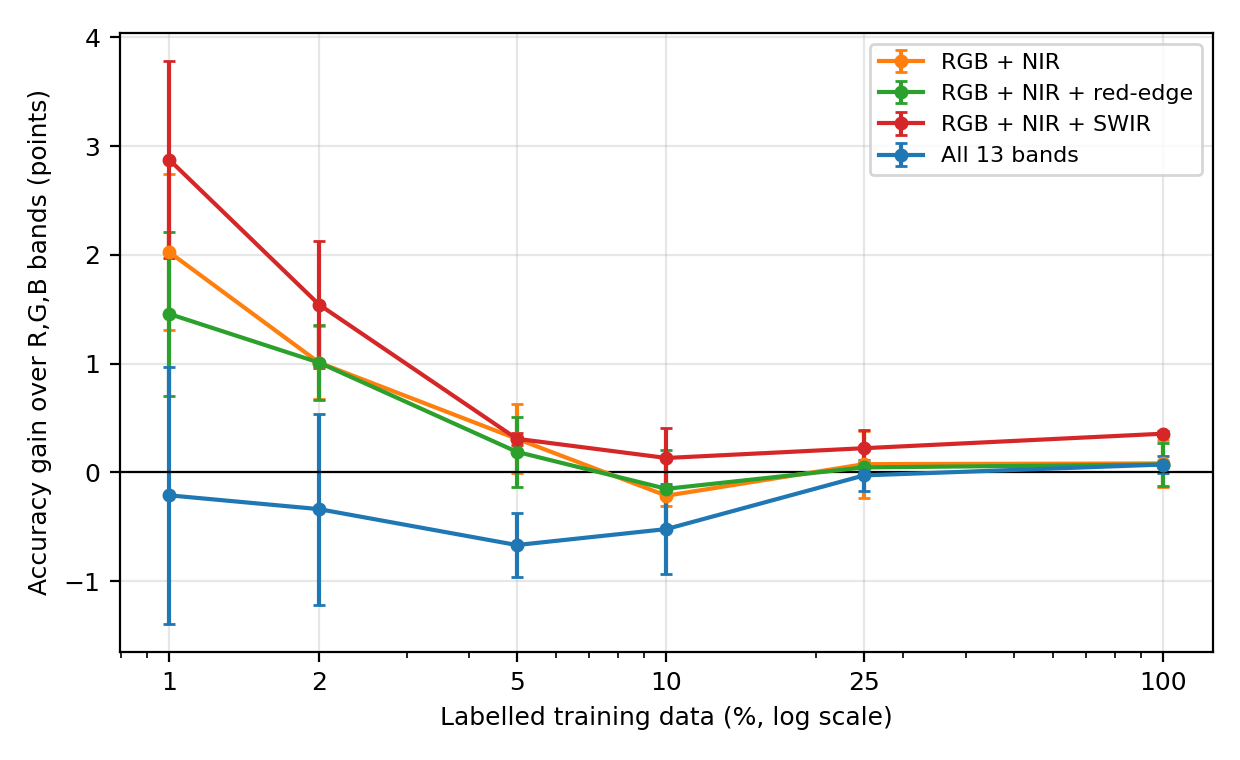
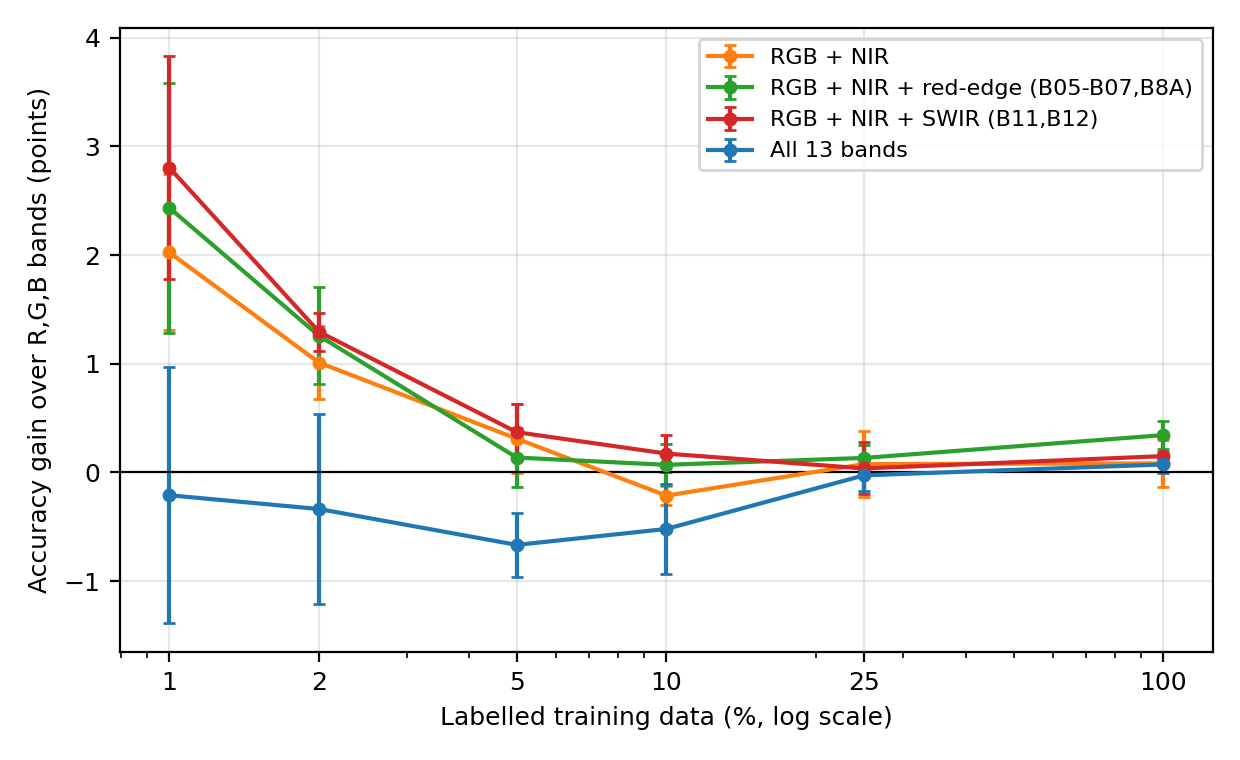
Add corrected band-ablation runs (red-edge, SWIR); rewrite band results in report; figure script reads all run files

diff --git a/report/latex/Elcvia2e.tex b/report/latex/Elcvia2e.tex
@@ -79,7 +79,8 @@ ResNet-50 88.3\% accuracy, against 76.3\% for the small CNN and 73.5\% for a
 ResNet-50 trained from scratch; the CNN needs about 3.6 to 5 times more labels to
 match them. With all labels the gap closes (98.5\%--98.8\%) and differences are within
 test-set noise. We also compare input bands using the 13-band version of
-the data. Extra infrared bands help mostly when labels are scarce, whereas feeding all
+the data. Infrared bands help mostly when labels are scarce (about +2 to +3 points at 1\% of
+the labels, almost nothing from 5\%), whereas feeding all
 13 bands to a pre-trained network does not help. We report per-class errors
 (highway/river and crop/vegetation confusions dominate), calibration, and a
 band-order pitfall in the data files that we found and corrected.
@@ -302,13 +303,21 @@ built-up and water surfaces (Figure~\ref{fig:spectral}), information that a netw
 extract from the visible bands alone.
 
 \textbf{More bands is not better.} Feeding all 13 bands to the pre-trained network is slightly worse than R,G,B for
-1--10\% of the labels ($-0.2$ to $-0.7$ points) and equal at 100\% ($+0.1$). A likely reason is that the pre-trained
+1--10\% of the labels ($-0.2$ to $-0.7$ points; at 1--2\% this is within one standard deviation, at 5--10\% it is not)
+and equal at 25--100\% ($0.0$ and $+0.1$). A likely reason is that the pre-trained
 first layer was learned for three channels, and ten extra channels dilute it; with few labels the network cannot
-relearn it. Selecting a few informative bands is better than using all of them.
+relearn it. Selecting a few informative bands is better than using all of them (at 1\%, 91.4--92.3\% against 89.2\%).
 
-\textbf{The first-run band sets.} The set B08+B12+B8A reached the highest accuracy of the ablation: $92.3\pm0.3$\% at 1\%
-($+2.9\pm0.9$ points over R,G,B) and $99.2\pm0.1$\% at 100\% ($+0.4\pm0.0$). B08+B05--B07+B09 gave
-$+1.5\pm0.8$ at 1\%. \tbd{two sentences on the corrected red-edge and SWIR groups once the re-run is finished.}
+\textbf{Beyond near-infrared.} The corrected groups give $+2.4\pm1.2$ points at 1\% of the labels for the red-edge set
+(B05--B07, B8A) and $+2.8\pm1.0$ for the SWIR set (B11, B12), against $+2.0\pm0.7$ for B08 alone; at 2\% both give $+1.3$
+against $+1.0$. The extra gain over B08 alone (at most 0.8 points) is smaller than the seed-to-seed standard deviation, so
+with three seeds we cannot rank the NIR-only, red-edge and SWIR inputs. From 5\% of the labels on, every group is
+within $\pm0.4$ points of R,G,B, which is the resolution of the test set.
+
+\textbf{The first-run band sets.} The set B08+B12+B8A has the highest mean at 1\% ($92.3\pm0.3$\%, $+2.9\pm0.9$ points over
+R,G,B) and at 100\% ($99.2\pm0.1$\%, $+0.4\pm0.0$), but it is statistically tied with the corrected SWIR set ($92.2\pm0.9$\% at 1\%), which
+shares the band B12, and with the corrected red-edge set at 100\%. B08+B05--B07+B09 gave the smallest gain of the extended
+sets ($+1.5\pm0.8$ at 1\%), possibly because B09 (water vapour) carries little information about the land surface.
 
 \subsection{JPEG RGB versus RGB from the multispectral files}
 \label{sec:rgbvs}
@@ -360,7 +369,9 @@ model: this is worth the same accuracy as 3.6 to 5 times more labels, much more 
 input-band choice we tried. A ViT-S/16 is a good default at 1--5\% of the labels; with a quarter of the labels or more a pre-trained
 ResNet-50 is within 0.3 points of it, and even a small CNN trained from scratch is within 0.3 points
 at 100\% of the labels. When labels are very scarce and infrared bands are available, feeding a small, well-chosen
-set of them (rather than all bands) gives an additional gain of up to about 3 points.
+set of them (rather than all bands) gives an additional gain of about 2 to 3 points at 1\% of the labels. Most of it
+comes from the single near-infrared band; adding red-edge or SWIR bands on top changes the result by less than the seed noise.
+From 5\% of the labels on, the gain is below 0.5 points.
 
 \textbf{Limitations.} (1) EuroSAT patches come from the same scenes, and we split patches at random,
 so patches from neighbouring locations can be in both the training and the test set; absolute accuracies are
@@ -379,7 +390,8 @@ learning, nor remote-sensing-specific pre-trained models [6], which are natural 
 On EuroSAT, the amount of labelled data needed depends mostly on whether the network is pre-trained: with 22 labelled
 images per class an ImageNet-pre-trained ViT-S reaches 90.6\% accuracy and ResNet-50 88.3\%, against 76.3\% for a
 small CNN, and a CNN needs 3.6 to 5 times more labels to catch up; with all labels every good model is at 98.5--98.8\%.
-Near-infrared and short-wave-infrared information adds up to about 3 points when only 1\% of the labels are available,
+Near-infrared information adds about 2 points when only 1\% of the labels are available (2.4--2.9 points with red-edge or
+short-wave-infrared bands as well, a difference within noise) and almost nothing from 5\% of the labels on,
 while using all 13 bands with a pre-trained network does not help. Most errors are between visually similar
 classes (Highway/River and the crop/vegetation group), and all models are under-confident because of label smoothing.
 We also found that the band order of the EuroSAT multispectral files differs from its documentation, which silently

diff --git a/report/latex/tab_bands.tex b/report/latex/tab_bands.tex
@@ -6,10 +6,10 @@
 \hline
 Input bands & 1\% & 2\% & 5\% & 10\% & 25\% & 100\% \\ \hline \hline
 R,G,B & 89.4 $\pm$ 0.6 & 93.7 $\pm$ 0.1 & 96.4 $\pm$ 0.2 & 97.3 $\pm$ 0.1 & 98.0 $\pm$ 0.0 & 98.8 $\pm$ 0.1 \\
-R,G,B + B08 (NIR) & 91.4 $\pm$ 0.3 & 94.7 $\pm$ 0.4 & \textbf{96.7 $\pm$ 0.5} & 97.1 $\pm$ 0.1 & 98.1 $\pm$ 0.3 & 98.9 $\pm$ 0.1 \\
-R,G,B + B08 + B05,B06,B07,B8A (red-edge) & \textbf{TBD} & \textbf{TBD} & \textbf{TBD} & \textbf{TBD} & \textbf{TBD} & \textbf{TBD} \\
-R,G,B + B08 + B11,B12 (SWIR) & \textbf{TBD} & \textbf{TBD} & \textbf{TBD} & \textbf{TBD} & \textbf{TBD} & \textbf{TBD} \\
-R,G,B + B08 + B12,B8A (first run) & \textbf{92.3 $\pm$ 0.3} & \textbf{95.2 $\pm$ 0.6} & \textbf{96.7 $\pm$ 0.2} & \textbf{97.5 $\pm$ 0.2} & \textbf{98.2 $\pm$ 0.1} & \textbf{99.2 $\pm$ 0.1} \\
+R,G,B + B08 (NIR) & 91.4 $\pm$ 0.3 & 94.7 $\pm$ 0.4 & 96.7 $\pm$ 0.5 & 97.1 $\pm$ 0.1 & 98.1 $\pm$ 0.3 & 98.9 $\pm$ 0.1 \\
+R,G,B + B08 + B05,B06,B07,B8A (red-edge) & 91.8 $\pm$ 0.8 & 95.0 $\pm$ 0.5 & 96.5 $\pm$ 0.3 & 97.4 $\pm$ 0.3 & 98.1 $\pm$ 0.1 & 99.2 $\pm$ 0.1 \\
+R,G,B + B08 + B11,B12 (SWIR) & 92.2 $\pm$ 0.9 & 95.0 $\pm$ 0.2 & \textbf{96.8 $\pm$ 0.2} & \textbf{97.5 $\pm$ 0.1} & 98.0 $\pm$ 0.2 & 99.0 $\pm$ 0.1 \\
+R,G,B + B08 + B12,B8A (first run) & \textbf{92.3 $\pm$ 0.3} & \textbf{95.2 $\pm$ 0.6} & 96.7 $\pm$ 0.2 & 97.5 $\pm$ 0.2 & \textbf{98.2 $\pm$ 0.1} & \textbf{99.2 $\pm$ 0.1} \\
 R,G,B + B08 + B05--B07,B09 (first run) & 90.8 $\pm$ 0.2 & 94.7 $\pm$ 0.4 & 96.6 $\pm$ 0.4 & 97.2 $\pm$ 0.3 & 98.1 $\pm$ 0.1 & 98.9 $\pm$ 0.2 \\
 All 13 bands & 89.2 $\pm$ 0.6 & 93.4 $\pm$ 0.9 & 95.7 $\pm$ 0.3 & 96.8 $\pm$ 0.4 & 98.0 $\pm$ 0.1 & 98.9 $\pm$ 0.2 \\
 \hline

diff --git a/src/make_report_figures.py b/src/make_report_figures.py
@@ -28,8 +28,8 @@ OUT = Path("report/latex")
 OUT.mkdir(parents=True, exist_ok=True)
 plt.rcParams.update({"font.size": 9, "axes.titlesize": 10, "figure.dpi": 150})
 
-df = pd.concat([pd.read_csv(p) for p in ["results/runs_rgb.csv", "results/runs_ms_a.csv", "results/runs_ms_b.csv"]],
-               ignore_index=True)
+# read EVERY results file (RGB runs, first band run a+b, corrected band rerun c+d), so new runs are never missed
+df = pd.concat([pd.read_csv(p) for p in sorted(glob.glob("results/runs_*.csv"))], ignore_index=True)
 df["cfg"] = df["model"] + "/" + df["init"] + "/" + df["input"]
 classes = json.loads(Path("data/splits.json").read_text())["classes"]
 SHORT = ["AnnualCrop", "Forest", "Herbaceous", "Highway", "Industrial", "Pasture", "PermCrop",
@@ -66,8 +66,8 @@ plt.tight_layout(); plt.savefig(OUT / "fig_label_eff.png", dpi=200); plt.close()
 base = df[df.cfg == "resnet50/imagenet/rgb_ms"].set_index(["frac", "seed"]).test_acc
 fig, ax = plt.subplots(figsize=(6.2, 3.8))
 styles = [("resnet50/imagenet/rgb+nir", "RGB + NIR", "#ff7f0e"),
-          ("resnet50/imagenet/rgb+nir+rededge", "RGB + NIR + red-edge", "#2ca02c"),
-          ("resnet50/imagenet/rgb+nir+swir", "RGB + NIR + SWIR", "#d62728"),
+          ("resnet50/imagenet/rgb+nir+rededge", "RGB + NIR + red-edge (B05-B07,B8A)", "#2ca02c"),
+          ("resnet50/imagenet/rgb+nir+swir", "RGB + NIR + SWIR (B11,B12)", "#d62728"),
           ("resnet50/imagenet/all13", "All 13 bands", "#1f77b4")]
 for cfg, lab, col in styles:
     d = ((df[df.cfg == cfg].set_index(["frac", "seed"]).test_acc - base) * 100).groupby("frac").agg(["mean", "std"])

diff --git a/docs/HANDOFF.md b/docs/HANDOFF.md
@@ -25,7 +25,13 @@ In the EuroSAT-MS `.tif` files the narrow NIR band **B8A is stored last**: order
 - old `rgb+nir+rededge` really = R,G,B + B08 + B05-B07 + B09 -> stored as `rgb+nir+b05b06b07b09`
 `src/data.py` is fixed (`BANDS` order, `BAND_GROUPS`). The two groups as originally intended (`rgb+nir+rededge` = B05,B06,B07,B8A; `rgb+nir+swir` = B11,B12) were **re-run** in Kaggle `notebook15cd3e6dee` (Version 2; notebook `notebooks/run_kaggle_ms_fix.ipynb`). The user says it has FINISHED, but **its results are not yet downloaded or merged**.
 
-## Remaining steps (in order)
+## UPDATE (session 2, 22 Nov 2026): steps 1-5 below are DONE
+- Corrected band run downloaded and merged (`results/runs_ms_c.csv` = red-edge, `runs_ms_d.csv` = SWIR, 18 rows each; total 198 runs). Tables/figures rebuilt, report text rewritten for the new numbers, Overleaf copy recompiled: 10 pages, no TBD.
+- New band result: NIR alone +2.0 +-0.7 pt at 1% labels; red-edge (B05-B07,B8A) +2.4 +-1.2; SWIR (B11,B12) +2.8 +-1.0; first-run B08+B12+B8A +2.9 +-0.9. Differences between the extended sets are within seed noise; from 5% labels on all gains are <0.4 pt.
+- Bug found in session 2: `src/make_report_figures.py` only read runs_rgb/ms_a/ms_b, so the band-gain figure ignored the corrected runs. It now reads every `results/runs_*.csv`.
+- Still open: user confirms affiliation/authors/email, downloads the PDF from Overleaf, says whether slides are needed.
+
+## Remaining steps (in order) - historical, see UPDATE above
 1. **Get the results.** Kaggle -> notebook15cd3e6dee -> Version 2 -> Output tab -> `proj/results_ms_fix.zip` (~1-3 MB; do NOT click "Download All", it holds ~4 GB). Extract into `kaggle_out/ms_fix/` (git-ignored). Copy `results/runs_ms_c.csv` and `results/runs_ms_d.csv` into the project `results/`, and `figures/spectral_signatures.png` (now with the corrected band names) into `figures/`. If the run did not finish or failed, read its log (view-only `/log` page) and resubmit.
 2. `python src/make_report_tables.py` (fills the two TBD rows of the band table automatically) and `python src/make_report_figures.py` (band-gain figure now uses the corrected groups; also copies the spectral figure). Open `figures/` PNGs and check them.
 3. **Edit `report/latex/Elcvia2e.tex`:**

diff --git a/README.md b/README.md
@@ -21,7 +21,7 @@ Team 21 · Deep Learning · Project P21 · Dataset: EuroSAT (Sentinel-2, 10 clas
 | ResNet-50 (ImageNet) | 88.3 | 96.0 | 96.8 | 98.0 | 98.7 |
 | ViT-S/16 (ImageNet-21k) | **90.6** | **97.1** | **97.5** | **98.3** | **98.8** |
 
-Pre-training is the strongest lever (worth ~3.6-5x more labels at 1%). Near-infrared adds ~2 points at 1% labels; feeding all 13 bands to a pre-trained network does not help.
+Pre-training is the strongest lever (worth ~3.6-5x more labels at 1%). Near-infrared adds ~2 points at 1% labels (2.4-2.9 with red-edge or SWIR bands too, a difference within seed noise) and almost nothing from 5% labels on; feeding all 13 bands to a pre-trained network does not help.
 Full tables, band ablation, error and calibration analysis: see the report.
 
 **Band-order pitfall:** in the EuroSAT multispectral GeoTIFFs the narrow NIR band B8A is stored *last* (order B01-B08, B09, B10, B11, B12, B8A), unlike the documentation. `src/data.py` has the verified order. The first band-ablation run used the documented order; its two extended groups are kept in `results/runs_ms_a/b.csv` under their true band lists, and the intended groups were re-run (`notebooks/run_kaggle_ms_fix.ipynb`).
